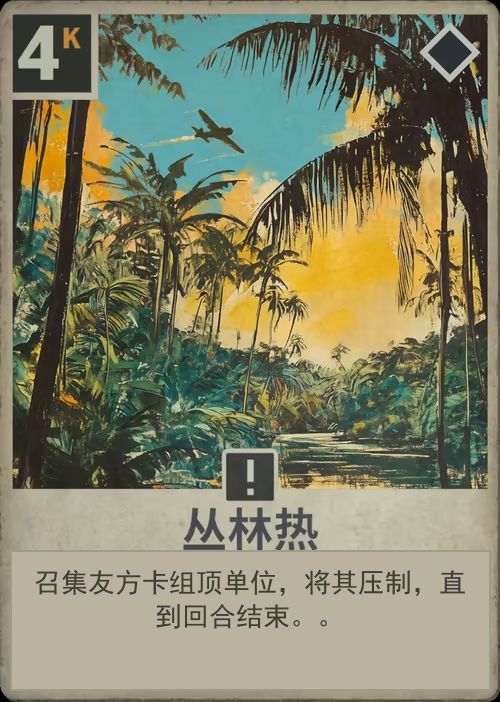
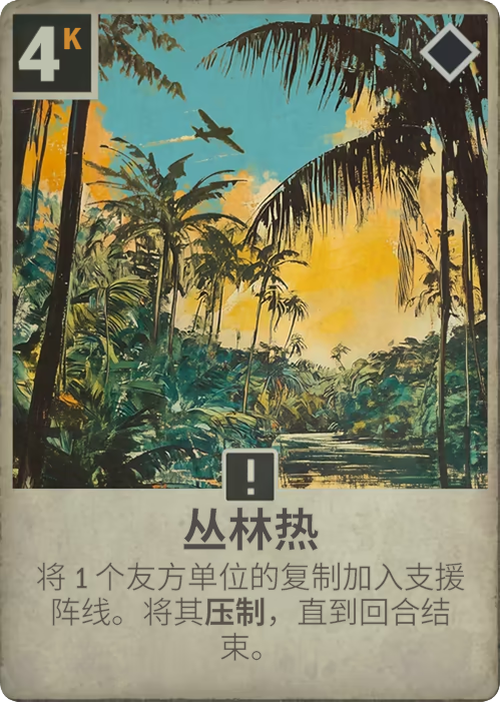
Use official temporary weather faces and effects

diff --git a/code/v0.1/mods/kards/code/cards/Neutral/card_jungle_fever_summon.py b/code/v0.1/mods/kards/code/cards/Neutral/card_jungle_fever_summon.py
@@ -20,24 +20,43 @@ from main import (
     Player,
     Procedure,
     Rarity,
+    cards,
 )
 from mods.kards.code.keywords.weather import KEYWORD as WEATHER
 from mods.kards.code.weather import add_end_cleanup, add_turn_hook, start_climate_choice
 
+def target_valid(target: Card, player: Player, ground: BattleGround) -> bool:
+    """目标: 友方单位"""
+    return target.is_unit and target.controller is player
+
+
 def action(card: Card, event: Event, ground: BattleGround) -> None:
-    """召集卡组顶单位并压制"""
+    """复制 1 个友方单位到支援阵线并压制"""
     player = event.player
-    deck = ground.decks[player].cards
-    unit = next((item for item in reversed(deck) if item.is_unit), None)
-    if unit is not None and ground.add_unit(player, unit):
-        ground.suppress(unit)
+
+    def apply(target: Card) -> None:
+        copy = cards.create(target.card_id)
+        if not ground.add_unit(player, copy):
+            return
+        copy.at = target.at
+        copy.df = target.df
+        copy.max_df = target.max_df
+        copy.keywords = list(target.keywords)
+        ground.suppress(copy)
+
+    ground.request_target(
+        player,
+        card,
+        lambda target: target_valid(target, player, ground),
+        apply,
+    )
 
 CARD_DATA = CardData(
     type=CardType.ORDER,
     country=Country.NEUTRAL,
     cost=4,
     display_name="丛林热",
-    text="召集友方卡组顶单位，将其压制，直到回合结束。。",
+    text="将 1 个友方单位的复制加入支援阵线。将其压制，直到回合结束。",
     art="jungle_fever_summon.png",
     rare=Rarity.STANDARD,
     keywords=[WEATHER],
@@ -46,6 +65,7 @@ CARD_DATA = CardData(
             EventType.USE,
             lambda card, event, ground: event.dict.get("source") is card,
             action,
+            target_valid=target_valid,
         )
     ],
 )

diff --git a/code/v0.1/mods/kards/code/cards/Neutral/card_thunderstorm_cost.py b/code/v0.1/mods/kards/code/cards/Neutral/card_thunderstorm_cost.py
@@ -1,0 +1,51 @@
+"""雷暴"""
+import random
+import sys
+from pathlib import Path
+
+_ROOT = Path(__file__).resolve().parents[5]
+if str(_ROOT) not in sys.path:
+    sys.path.insert(0, str(_ROOT))
+
+from main import (
+    BattleGround,
+    Card,
+    CardData,
+    CardType,
+    Country,
+    Event,
+    EventType,
+    Procedure,
+    Rarity,
+)
+from mods.kards.code.keywords.weather import KEYWORD as WEATHER
+
+
+def action(card: Card, event: Event, ground: BattleGround) -> None:
+    """随机改变双方手牌费用"""
+    player = event.player
+    enemy_hand = ground.hands[player.opponent].cards
+    if enemy_hand:
+        random.choice(enemy_hand).apply_permanent(cost=1)
+    own_hand = ground.hands[player].cards
+    if own_hand:
+        random.choice(own_hand).apply_permanent(cost=-1)
+
+
+CARD_DATA = CardData(
+    type=CardType.ORDER,
+    country=Country.NEUTRAL,
+    cost=2,
+    display_name="雷暴",
+    text="随机使 1 张敌方手牌获得 +1 花费，随机使 1 张友方卡牌获得 -1 花费。",
+    art="thunderstorm_cost.png",
+    rare=Rarity.STANDARD,
+    keywords=[WEATHER],
+    procedures=[
+        Procedure(
+            EventType.USE,
+            lambda card, event, ground: event.dict.get("source") is card,
+            action,
+        )
+    ],
+)

diff --git a/code/v0.1/mods/kards/code/cards/Neutral/card_tropical_storm_damage.py b/code/v0.1/mods/kards/code/cards/Neutral/card_tropical_storm_damage.py
@@ -60,7 +60,7 @@ CARD_DATA = CardData(
     country=Country.NEUTRAL,
     cost=4,
     display_name="热带风暴",
-    text="对一个敌方目标造成 3 点伤害，随机对一个敌方单位造成 2 点伤害，再随机对一个敌方单位造成 1 点伤害。。",
+    text="对 1 个敌方目标造成 3 点伤害。随机对敌方单位重复 2 次，每次造成的伤害 -1。",
     art="tropical_storm_damage.png",
     rare=Rarity.STANDARD,
     keywords=[WEATHER],

diff --git a/code/v0.1/mods/kards/code/cards/Neutral/card_heatwave_damage.py b/code/v0.1/mods/kards/code/cards/Neutral/card_heatwave_damage.py
@@ -51,7 +51,7 @@ CARD_DATA = CardData(
     country=Country.NEUTRAL,
     cost=2,
     display_name="热浪",
-    text="本回合，友方单位部署时，随机对一个敌方目标造成等同于自身攻击力的伤害。。",
+    text="本回合，友方单位部署时，使其随机对 1 个敌方目标造成等同于其攻击力的伤害。",
     art="heatwave_damage.png",
     rare=Rarity.STANDARD,
     keywords=[WEATHER],

diff --git a/code/v0.1/mods/kards/code/cards/Neutral/card_scorching_sun_air.py b/code/v0.1/mods/kards/code/cards/Neutral/card_scorching_sun_air.py
@@ -59,7 +59,7 @@ CARD_DATA = CardData(
     country=Country.NEUTRAL,
     cost=6,
     display_name="骄阳",
-    text="本回合，所有友方空军行动花费为 0，攻击时也对敌方总部造成伤害。。",
+    text="本回合，友方空军行动花费为 0，攻击时也对敌方总部造成伤害。",
     art="scorching_sun_air.png",
     rare=Rarity.STANDARD,
     keywords=[WEATHER],

diff --git a/code/v0.1/mods/kards/code/cards/Neutral/card_tropical_storm.py b/code/v0.1/mods/kards/code/cards/Neutral/card_tropical_storm.py
@@ -41,7 +41,7 @@ CARD_DATA = CardData(
     country=Country.NEUTRAL,
     cost=4,
     display_name="热带风暴",
-    text="双方将所有手牌洗入卡组，抽取等同于最大洗入数量的卡牌。。",
+    text="双方将所有手牌洗入卡组，抽取等同于最大洗入数量的卡牌。",
     art="tropical_storm.png",
     rare=Rarity.STANDARD,
     keywords=[WEATHER],

diff --git a/code/v0.1/mods/kards/code/cards/Neutral/card_cyclone_single.py b/code/v0.1/mods/kards/code/cards/Neutral/card_cyclone_single.py
@@ -64,7 +64,7 @@ CARD_DATA = CardData(
     country=Country.NEUTRAL,
     cost=6,
     display_name="旋风",
-    text="对一个单位造成 6 点伤害，对其相邻目标（含 HQ）造成 2 点伤害。。",
+    text="对 1 个敌方单位造成 6 点伤害，对相邻目标造成 2 点伤害。",
     art="cyclone_single.png",
     rare=Rarity.STANDARD,
     keywords=[WEATHER],

diff --git a/code/v0.1/mods/kards/code/cards/Neutral/card_tropical_storm_retreat.py b/code/v0.1/mods/kards/code/cards/Neutral/card_tropical_storm_retreat.py
@@ -46,7 +46,7 @@ CARD_DATA = CardData(
     country=Country.NEUTRAL,
     cost=4,
     display_name="热带风暴",
-    text="随机撤退一个敌方单位，然后随机消灭一个敌方单位。。",
+    text="随机使 1 个敌方单位撤退，然后随机消灭 1 个敌方单位。",
     art="tropical_storm_retreat.png",
     rare=Rarity.STANDARD,
     keywords=[WEATHER],

diff --git a/code/v0.1/mods/kards/code/cards/Neutral/card_monsoon_set_stats.py b/code/v0.1/mods/kards/code/cards/Neutral/card_monsoon_set_stats.py
@@ -39,7 +39,7 @@ CARD_DATA = CardData(
     country=Country.NEUTRAL,
     cost=6,
     display_name="季风雨",
-    text="所有单位攻击力、行动花费、防御力和最大防御力变为 2。。",
+    text="所有单位攻击力、行动花费、防御力和最大防御力变为 2。",
     art="monsoon_set_stats.png",
     rare=Rarity.STANDARD,
     keywords=[WEATHER],

diff --git a/code/v0.1/mods/kards/code/cards/Neutral/card_jungle_fever_enter.py b/code/v0.1/mods/kards/code/cards/Neutral/card_jungle_fever_enter.py
@@ -52,7 +52,7 @@ CARD_DATA = CardData(
     country=Country.NEUTRAL,
     cost=4,
     display_name="丛林热",
-    text="本回合，友方单位进入时 +2 攻击力并获得闪击。。",
+    text="本回合，友方单位部署或加入时，使其获得 +2 攻击力和闪击。",
     art="jungle_fever_enter.png",
     rare=Rarity.STANDARD,
     keywords=[WEATHER],

diff --git a/code/v0.1/mods/kards/code/cards/Neutral/card_monsoon_infantry.py b/code/v0.1/mods/kards/code/cards/Neutral/card_monsoon_infantry.py
@@ -44,7 +44,7 @@ CARD_DATA = CardData(
     country=Country.NEUTRAL,
     cost=6,
     display_name="季风雨",
-    text="所有友方步兵 +2 攻击力，+2 防御力，并能再次行动。。",
+    text="所有友方步兵 +2 攻击力，+2 防御力，并能再次行动。",
     art="monsoon_infantry.png",
     rare=Rarity.STANDARD,
     keywords=[WEATHER],

diff --git a/code/v0.1/mods/kards/code/cards/Neutral/card_heatwave_oc.py b/code/v0.1/mods/kards/code/cards/Neutral/card_heatwave_oc.py
@@ -47,7 +47,7 @@ CARD_DATA = CardData(
     country=Country.NEUTRAL,
     cost=2,
     display_name="热浪",
-    text="本回合，所有友方单位行动花费 -1，攻击力 +1。。",
+    text="使所有友方单位具有 +1 攻击力和 -1 行动花费，直到回合结束。",
     art="heatwave_oc.png",
     rare=Rarity.STANDARD,
     keywords=[WEATHER],
